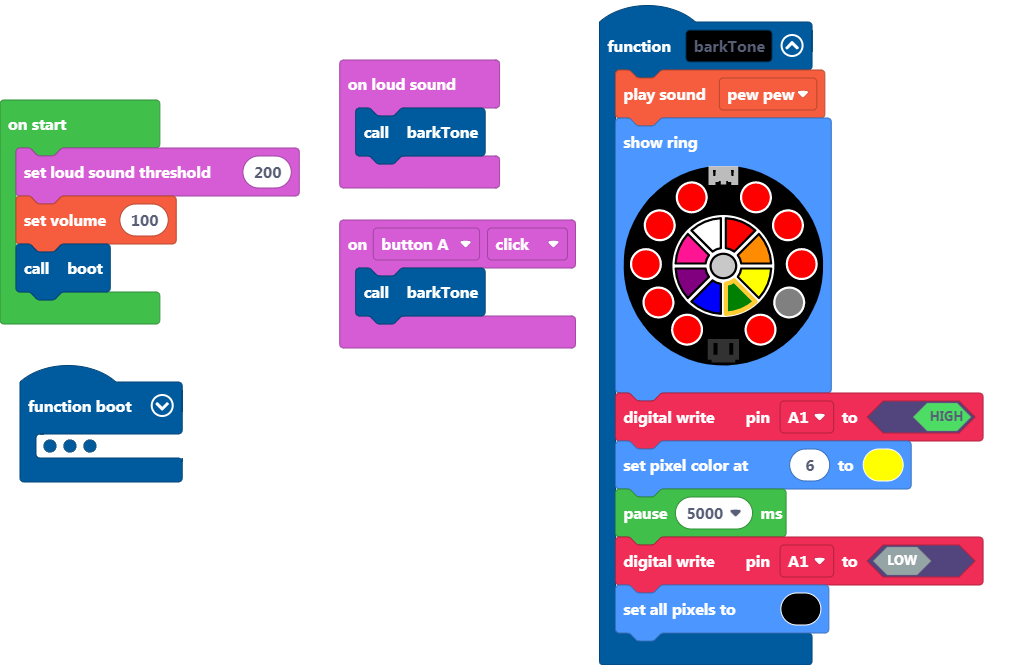
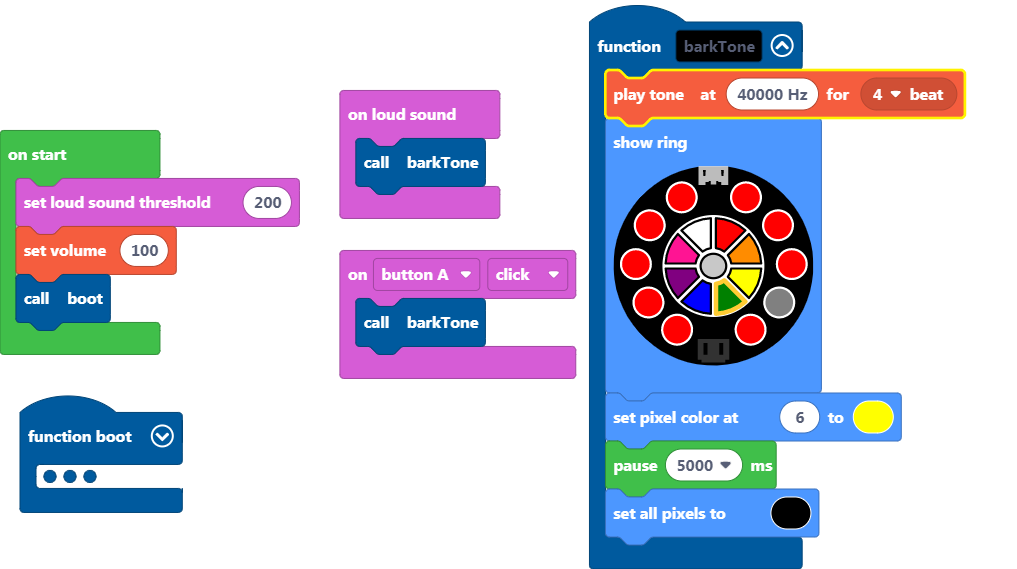
Update main.blocks, main.ts

diff --git a/main.ts b/main.ts
@@ -1,12 +1,10 @@
 function barkTone () {
-    music.pewPew.play()
+    music.playTone(40000, music.beat(BeatFraction.Breve))
     light.showRing(
     `red red red red red red black red red red`
     )
-    pins.A1.digitalWrite(true)
     light.setPixelColor(6, 0xffff00)
     pause(5000)
-    pins.A1.digitalWrite(false)
     light.setAll(0x000000)
 }
 input.onLoudSound(function () {
